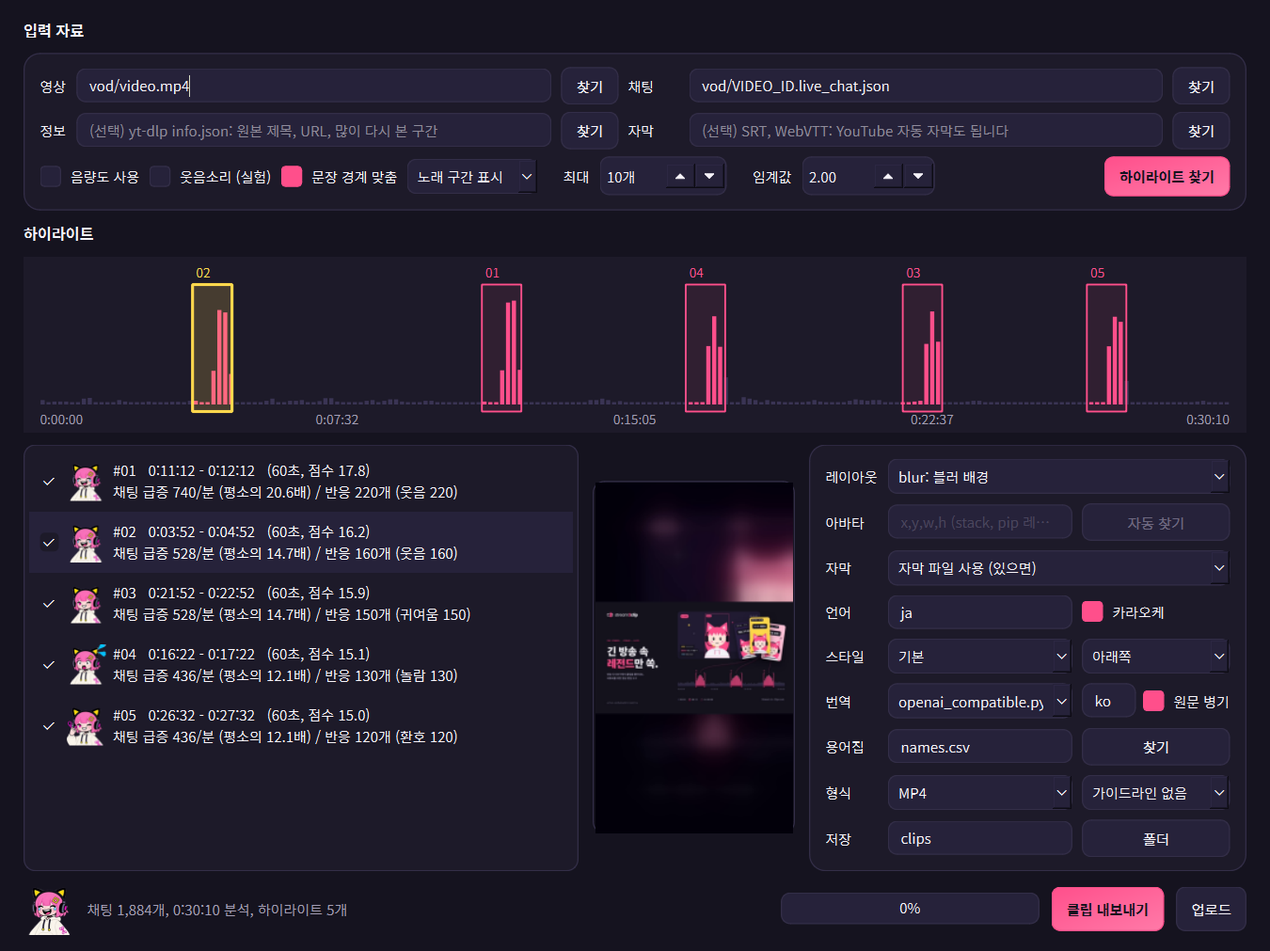
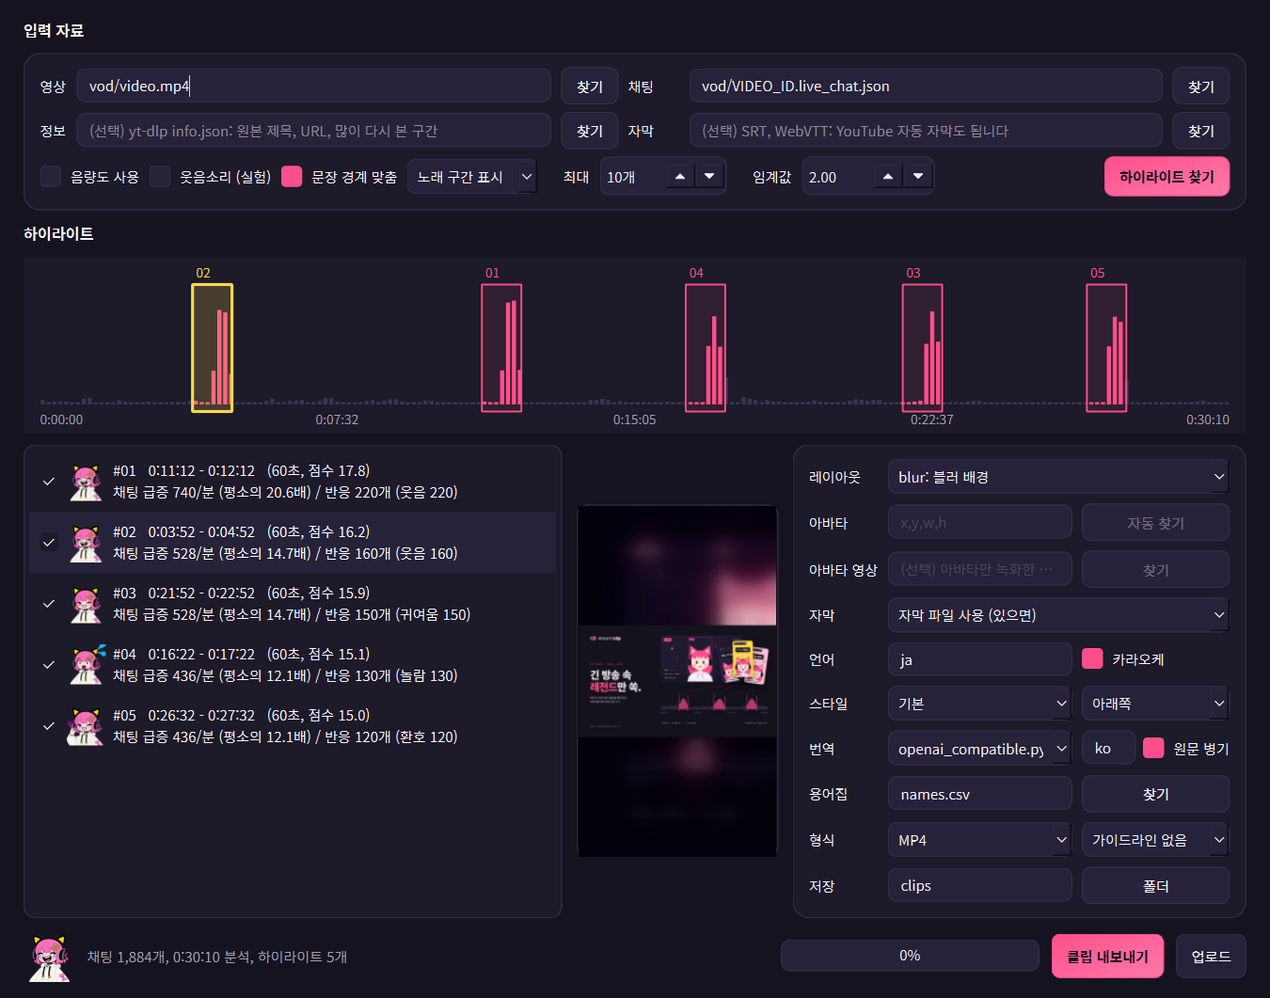
Release 0.9.0
Version numbers, changelog, README and docs, the site manual in three
languages, screenshots, and the run with real CHZZK and SOOP chats
and OBS.

diff --git a/site/ja/guide.html b/site/ja/guide.html
@@ -50,7 +50,7 @@
 <div class="wrap dochead">
   <h1>stream2clip 取扱説明書</h1>
   <dl>
-    <dt>対象バージョン</dt><dd>v0.8</dd>
+    <dt>対象バージョン</dt><dd>v0.9</dd>
     <dt>対象</dt><dd>Windows用インストーラー、実行ファイルおよびPythonパッケージの利用者</dd>
     <dt>配布元</dt><dd>github.com/BudongJW/stream2clip</dd>
   </dl>
@@ -239,6 +239,7 @@
           <tr><th scope="row">fit</th><td>画面全体が見えるように縮小</td></tr>
           <tr><th scope="row">stack</th><td>上にアバター、下にゲーム画面。<strong>自動検出</strong>でアバターの位置を検出</td></tr>
           <tr><th scope="row">pip</th><td>ゲーム画面を全体に表示し、隅にアバターを配置。<strong>自動検出</strong>でアバターの位置を検出</td></tr>
+          <tr><th scope="row">アバター動画</th><td>stack、pipで任意に使用。アバターだけを録画した動画を指定すると、緑の背景を取り除いて合成。透過背景の動画はそのまま使用</td></tr>
         </tbody>
       </table>
     </div>

diff --git a/site/guide.html b/site/guide.html
@@ -50,7 +50,7 @@
 <div class="wrap dochead">
   <h1>stream2clip 사용 설명서</h1>
   <dl>
-    <dt>적용 버전</dt><dd>v0.8</dd>
+    <dt>적용 버전</dt><dd>v0.9</dd>
     <dt>대상</dt><dd>Windows 설치 프로그램, 실행 파일 및 파이썬 패키지 사용자</dd>
     <dt>배포처</dt><dd>github.com/BudongJW/stream2clip</dd>
   </dl>
@@ -239,6 +239,7 @@
           <tr><th scope="row">fit</th><td>화면 전체가 보이도록 축소</td></tr>
           <tr><th scope="row">stack</th><td>상단 아바타, 하단 게임 화면. <strong>자동 찾기</strong>로 아바타 위치 검출</td></tr>
           <tr><th scope="row">pip</th><td>게임 화면을 전체에 채우고 구석에 아바타 삽입. <strong>자동 찾기</strong>로 아바타 위치 검출</td></tr>
+          <tr><th scope="row">아바타 영상</th><td>stack, pip에서 선택 사용. 아바타만 녹화한 영상을 지정하면 초록 배경을 제거하여 합성. 투명 배경 영상은 그대로 사용</td></tr>
         </tbody>
       </table>
     </div>

diff --git a/site/en/guide.html b/site/en/guide.html
@@ -50,7 +50,7 @@
 <div class="wrap dochead">
   <h1>stream2clip user manual</h1>
   <dl>
-    <dt>Version</dt><dd>v0.8</dd>
+    <dt>Version</dt><dd>v0.9</dd>
     <dt>Audience</dt><dd>Users of the Windows installer, the executables and the Python package</dd>
     <dt>Source</dt><dd>github.com/BudongJW/stream2clip</dd>
   </dl>
@@ -239,6 +239,7 @@
           <tr><th scope="row">fit</th><td>Whole picture scaled down to fit</td></tr>
           <tr><th scope="row">stack</th><td>Avatar on top, game picture below. <strong>Find it</strong> detects the avatar position</td></tr>
           <tr><th scope="row">pip</th><td>Game picture fills the frame, avatar in a corner. <strong>Find it</strong> detects the avatar position</td></tr>
+          <tr><th scope="row">Avatar video</th><td>Optional for stack and pip. A recording of the avatar alone is laid over the game with its green background removed. A transparent video is used as it is</td></tr>
         </tbody>
       </table>
     </div>

diff --git a/src/stream2clip/__init__.py b/src/stream2clip/__init__.py
@@ -23,7 +23,7 @@ from .export import FFmpegError, MediaInfo, export, probe
 from .ffmpeg import ALPHA_FORMATS, FORMATS, ExportOptions, build_export_command, build_video_filter
 from .geometry import Region
 
-__version__ = "0.8.0"
+__version__ = "0.9.0"
 
 __all__ = [
     "ALPHA_FORMATS",

diff --git a/README.md b/README.md
@@ -11,7 +11,7 @@
 방송 화면과 다시보기에서 장면을 캡쳐, 녹화하고 하이라이트 구간을 세로형 클립으로 제작하는 영상 편집 도구
 
 <!-- 프로젝트 -->
-<a href="#로드맵"><img alt="version" src="https://img.shields.io/badge/version-0.8.0-FF4F8B?style=for-the-badge&labelColor=15131F"></a>
+<a href="#로드맵"><img alt="version" src="https://img.shields.io/badge/version-0.9.0-FF4F8B?style=for-the-badge&labelColor=15131F"></a>
 <a href="LICENSE"><img alt="license" src="https://img.shields.io/badge/license-Apache--2.0-F7F4FA?style=for-the-badge&labelColor=15131F"></a>
 <a href="https://github.com/BudongJW/stream2clip/actions/workflows/ci.yml"><img alt="CI" src="https://img.shields.io/github/actions/workflow/status/BudongJW/stream2clip/ci.yml?branch=main&style=for-the-badge&label=CI&logo=githubactions&logoColor=white&labelColor=15131F"></a>
 <a href="#알려진-제약"><img alt="platform" src="https://img.shields.io/badge/platform-Windows%20%7C%20macOS%20%7C%20Linux-FFD84D?style=for-the-badge&labelColor=15131F"></a>
@@ -27,7 +27,7 @@
 <a href="#기술-스펙"><img alt="faster-whisper" src="https://img.shields.io/badge/faster--whisper-subtitles-412991?style=flat-square"></a>
 <a href="#기술-스펙"><img alt="libass" src="https://img.shields.io/badge/libass-karaoke%20ASS-6E6880?style=flat-square"></a>
 <a href="#개발"><img alt="pytest" src="https://img.shields.io/badge/tested%20with-pytest-0A9EDC?style=flat-square&logo=pytest&logoColor=white"></a>
-<a href="#개발"><img alt="tests" src="https://img.shields.io/badge/tests-426-4ADE80?style=flat-square"></a>
+<a href="#개발"><img alt="tests" src="https://img.shields.io/badge/tests-436-4ADE80?style=flat-square"></a>
 
 <!-- 기능 -->
 <a href="#출력-포맷"><img alt="output" src="https://img.shields.io/badge/output-GIF%2C%20WebP%2C%20MP4%2C%20WebM%2C%20MOV%2C%20APNG-FF4F8B?style=flat-square&labelColor=15131F"></a>
@@ -69,6 +69,7 @@
 
 | &numsp;버&NoBreak;전&numsp; | 주요 변경 |
 |:---:|---|
+| v0.9 | 하이라이트 창의 아바타 영상 입력, 업로드 예약 게시, 자막 속 반응 표현 신호(실험) |
 | v0.8 | CHZZK, SOOP 라이브 채팅 직접 수신, 하이라이트 근거와 점검 문구의 일본어 및 영어 지원 |
 | v0.7 | 자막 개선(언어별 폰트 자동 선택, 문절 단위 줄바꿈, 스타일 프리셋과 위치), VRM 아바타 권리 검사 |
 | v0.6 | 문장 경계 맞춤, 스트리머 표시 구간(`!clip` 등), pip 레이아웃과 별도 아바타 영상 합성, Twitch 라이브 채팅 |
@@ -230,7 +231,7 @@ stream2clip clips vod/video.mp4 --highlights highlights.json --layout pip --avat
 | &numsp;&numsp;&numsp;&numsp;&numsp;방&NoBreak;법&numsp;&numsp;&numsp;&numsp;&numsp; | 옵션 | 내용 |
 |:---:|---|---|
 | 방송 화면의 영역 | `--avatar x,y,w,h`, `--avatar auto` | 방송 화면에서 아바타가 있는 사각 영역을 잘라 사용. `auto`는 얼굴 검출로 영역 결정 |
-| 별도 아바타 영상 | `--avatar-video FILE` | 아바타만 녹화한 그린스크린 또는 알파 영상을 방송 영상 위에 합성. 사각 테두리 없이 아바타 형태 그대로 표시 |
+| 별도 아바타 영상 | `--avatar-video FILE`, 하이라이트 창의 **아바타 영상** | 아바타만 녹화한 그린스크린 또는 투명 배경 영상을 방송 영상 위에 합성. 사각 테두리 없이 아바타 형태 그대로 표시 |
 
 ```bash
 stream2clip clips vod/video.mp4 --highlights highlights.json --layout pip --avatar-video vod/avatar.mp4 -o clips
@@ -240,7 +241,7 @@ stream2clip clips vod/video.mp4 --highlights highlights.json --layout pip --avat
 |:---:|---|
 | `--corner` | `pip`의 아바타 위치. `top-left`, `top-right`(기본값), `bottom-left`, `bottom-right` |
 | `--inset` | `pip`의 아바타 폭. 화면 폭 대비 비율, 기본값 0.42 |
-| `--avatar-key` | 아바타 영상에서 제거할 색. 기본값 `#00FF00`. `none` 지정 시 영상 자체의 알파 사용 |
+| `--avatar-key` | 아바타 영상에서 제거할 색. 기본값 `auto`: 영상에 투명 정보가 있으면(ProRes 4444 MOV, 알파 WebM 등) 그대로 사용하고, 없으면 `#00FF00` 제거. `none`은 영상 자체의 투명 정보만 사용 |
 | `--avatar-offset` | 아바타 영상의 녹화가 방송보다 먼저 시작된 시간(초). 늦게 시작된 경우 음수 |
 | `--game` | 게임 화면 영역 `x,y,w,h`. 미지정 시 화면 전체 |
 
@@ -417,7 +418,8 @@ stream2clip upload clips/clip_01.mp4 --title "레전드 장면" --description-fi
 - 사전 준비: 본인 Google Cloud 프로젝트의 OAuth 클라이언트 파일(데스크톱 앱 유형). 최초 1회 브라우저에서 동의
 - 공개 범위 기본값은 비공개. YouTube API는 미지정 시 공개로 게시하므로 항상 명시하여 전송
 - `--dry-run`: 전송 내용만 표시하고 업로드 미수행
-- 앱: 하이라이트 창의 **업로드**. 내보낸 클립과 설명란 파일이 입력된 상태로 열리며 **보낼 내용 보기**로 사전 확인. 공개 범위는 열 때마다 비공개에서 시작
+- `--publish-at "2026-12-24 18:00"`: 예약 게시. 비공개로 업로드한 후 지정한 시각(시간대 미표기 시 PC의 현지 시각)에 YouTube가 공개로 전환. 공개 범위를 비공개로 둔 경우에만 사용 가능
+- 앱: 하이라이트 창의 **업로드**. 내보낸 클립과 설명란 파일이 입력된 상태로 열리며 **보낼 내용 보기**로 사전 확인. 공개 범위는 열 때마다 비공개에서 시작. **예약 게시**를 선택하면 공개 범위가 비공개로 고정되고 지정한 시각에 공개
 
 ### 아바타 위치 자동 검출
 
@@ -482,12 +484,13 @@ stream2clip auto vod/video.mp4 --chat vod/chzzk_VIDEO_NO.chat.jsonl --info vod/i
 
 ### 검출 방식 및 평가
 
-| &numsp;&numsp;&numsp;항&NoBreak;목&numsp;&numsp;&numsp; | 요약 |
+| &numsp;&numsp;&numsp;&numsp;&numsp;항&NoBreak;목&numsp;&numsp;&numsp;&numsp;&numsp; | 요약 |
 |:---:|---|
 | 점수 계산 | 방송을 5초 단위로 분할, 신호별로 해당 방송의 평소 수준(중앙값, MAD)과 비교한 robust z-점수를 가중합 |
 | 제외 신호 | 인사 및 작별 메시지, YouTube 대기실 채팅 |
 | 평가 방법 | `evaluate` 명령으로 시청자 댓글의 타임스탬프와 비교 |
 | 평가 결과 | 공개 아카이브 7개 기준 기본값의 precision 52%, 무작위 대비 1.28배 |
+| 채팅 없는 방송 | `--speech 자막 파일`로 자막 속 반응 표현(스트리머의 발화)을 신호로 사용. 실험 기능이며 방송 5개 기준 무작위 대비 1.07배로 효과가 뚜렷하지 않음 |
 
 신호별 가중치, 기본값 산정 근거, 평가 결과 전체: [docs/DETECTION.md](docs/DETECTION.md)
 
@@ -559,7 +562,7 @@ stream2clip check --vrm model.vrm --monetized
 | 전역 단축키 | Win32 `RegisterHotKey`, **pynput** | - | - | Windows는 추가 설치 불필요, 그 외 `[hotkey]` |
 | 아바타 검출 | **onnxruntime**, deepghs/anime_face_detection | 1.16 이상 | 1.32 | 선택 설치 `[detect]`. 모델 12MB는 최초 사용 시 다운로드 |
 | OCR | **Tesseract**, pytesseract | 0.3 이상 | - | 선택 설치 `[ocr]`. 번역 플러그인과 함께 사용 |
-| 테스트 | **pytest**, Xvfb | 8 이상 | 9.2 | 426개. 실제 마우스 이벤트, F8 및 F9, VOD 클립 전체 절차, Windows 전역 단축키와 배율 |
+| 테스트 | **pytest**, Xvfb | 8 이상 | 9.2 | 436개. 실제 마우스 이벤트, F8 및 F9, VOD 클립 전체 절차, Windows 전역 단축키와 배율 |
 | CI | **GitHub Actions** | - | - | Ubuntu(Xvfb, GUI 포함), Windows. 패키징 변경 시 Windows 실행 파일과 설치 프로그램을 빌드하여 실행 |
 | 패키징 | setuptools, **PyInstaller**, Inno Setup | 77 이상, 6.10 이상, 6 | 6.22(PyInstaller) | `stream2clip`, `stream2clip-gui` 실행 파일, entry point 플러그인, Windows용 zip 및 설치 프로그램 |
 | 데이터 포맷 | **JSON Schema** 2020-12 | - | - | [`annotation.v1.schema.json`](src/stream2clip/schemas/annotation.v1.schema.json) |
@@ -633,8 +636,8 @@ python packaging/build_windows.py
 |---|---|
 | `dist/stream2clip/stream2clip-gui.exe` | 데스크톱 앱. 콘솔 창 없음 |
 | `dist/stream2clip/stream2clip.exe` | 명령줄 도구. `fetch`, `auto`, `avatar` 등 전체 명령 |
-| `dist/stream2clip-0.8.0-windows-x64.zip` | 위 폴더를 묶은 배포용 zip |
-| `dist/stream2clip-0.8.0-windows-x64-setup.exe` | 설치 프로그램(`--installer`, Inno Setup 6 필요). 첫 화면에서 언어(한국어, 일본어, 영어) 선택, 선택한 언어로 앱 시작 |
+| `dist/stream2clip-0.9.0-windows-x64.zip` | 위 폴더를 묶은 배포용 zip |
+| `dist/stream2clip-0.9.0-windows-x64-setup.exe` | 설치 프로그램(`--installer`, Inno Setup 6 필요). 첫 화면에서 언어(한국어, 일본어, 영어) 선택, 선택한 언어로 앱 시작 |
 
 | &numsp;&numsp;&numsp;&numsp;&numsp;&numsp;&numsp;&numsp;&numsp;옵&NoBreak;션&numsp;&numsp;&numsp;&numsp;&numsp;&numsp;&numsp;&numsp;&numsp; | 동작 |
 |:---:|---|
@@ -684,6 +687,7 @@ stream2clip gui
 | 휠, 구간 더블클릭 | 타임라인 확대. 빈 곳 더블클릭 시 전체 보기 |
 | 목록의 체크 | 내보낼 구간 선택 |
 | 레이아웃 **stack**, **pip**, **자동 찾기** | 얼굴 검출로 아바타 박스 입력 |
+| **아바타 영상** | 아바타만 녹화한 영상을 stack, pip 레이아웃의 아바타로 사용. 초록 배경 제거, 투명 배경 영상은 그대로 사용 |
 | **문장 경계 맞춤** | 자막 파일이 있는 경우 구간의 시작과 끝을 자막 줄의 경계로 이동(최대 3초) |
 | **스타일** | 자막 모양(기본, 상자, 분홍 강조, 작게)과 위치(아래쪽, 가운데, 위쪽) 선택 |
 | **웃음소리 (실험)**, **노래 구간** | 웃음소리 유형의 소리에 점수 가산, 노래와 겹치는 하이라이트 표시 또는 제외 |
@@ -990,7 +994,7 @@ src/stream2clip/
 ### 완료
 
 <details>
-<summary><b>버전별 완료 항목 34건</b></summary>
+<summary><b>버전별 완료 항목 37건</b></summary>
 
 <br>
 
@@ -1030,6 +1034,9 @@ src/stream2clip/
 | v0.7 | VRM 아바타 권리 검사(`check --vrm`) |
 | v0.8 | CHZZK, SOOP 라이브 채팅 직접 수신으로 라이브 모드 사용 |
 | v0.8 | 하이라이트 근거, 가이드라인 점검, VRM 검사, 업로드 경고 문구의 일본어 및 영어 지원 |
+| v0.9 | 하이라이트 창의 아바타 영상 입력, 투명 배경 아바타 영상의 자동 인식 |
+| v0.9 | YouTube 업로드 예약 게시(`--publish-at`, 업로드 창의 예약 게시) |
+| v0.9 | 자막 속 반응 표현 신호(`--speech`, 실험): 채팅이 없는 방송용 |
 
 </details>
 

diff --git a/docs/VERIFICATION.md b/docs/VERIFICATION.md
@@ -80,7 +80,8 @@ CHZZK 구간 다운로드 실패의 원인은 ffmpeg 7.1 이후의 HLS 확장자
 - 표시 명령과 OBS: 채팅 파일에 스트리머 역할의 `!clip`을 기록하여 기본 임계값, 준비 시간 이전 상태에서 35초 클립 1개 저장 확인. 시청자의 `!clip`은 발동하지 않음
 - CHZZK, SOOP 채팅: 실제 방송 중인 채널에 로그인 없이 접속하여 기본 설정으로 각 5분간 수신(OBS 미사용). CHZZK는 메시지 1,021개에서 1회 발동(점수 3.7, 평소의 2.8배), SOOP은 메시지 1,543개(별풍선 포함)에서 발동 없음. CHZZK 메시지 시각과 PC 시계의 차이는 약 1.5초, SOOP 메시지는 시각 정보가 없어 도착 시각 사용
 - SOOP 후원 패킷: 실제 방송 6개를 150초 관찰하여 별풍선 3건, 애드벌룬 2건, 영상풍선 1건의 항목 위치 확인. 구독 및 팔로우 알림은 관찰하지 못하여 수신하지 않음
-- 미검증: 기본 임계값에서의 클립 절단 위치와 실제 장면의 일치 여부(종료된 방송의 채팅으로만 측정). CHZZK, SOOP 채팅과 OBS를 함께 사용한 저장. CHZZK, SOOP의 성인 인증 및 비밀번호 방송
+- CHZZK, SOOP 채팅과 OBS: 실제 방송 중인 채널의 채팅과 실제 OBS Studio 33.0.1로 확인. 임계값을 1로 낮춘 설정에서 각 1회 발동하여 35초 클립을 55초, 59초 리플레이에서 잘라 저장(10개 확인 항목 통과)
+- 미검증: 기본 임계값에서의 클립 절단 위치와 실제 장면의 일치 여부(종료된 방송의 채팅으로만 측정). CHZZK, SOOP의 성인 인증 및 비밀번호 방송
 
 ## 클립 제작 부가 기능
 
@@ -89,7 +90,7 @@ CHZZK 구간 다운로드 실패의 원인은 ffmpeg 7.1 이후의 HLS 확장자
 | 문장 경계 맞춤 | 실제 방송 1개(85분, YouTube 자동 자막 1,001줄)의 하이라이트 10개에 적용. 가장자리 20곳 중 줄 중간에 걸린 곳이 12곳에서 1곳으로 감소, 이동량 최대 2.6초 | 이동 후 클립의 직접 시청 확인. 방송 1개의 결과에 한정 |
 | 스트리머 표시 구간 | 역할 판독은 실제 YouTube 채팅 7개 방송(`MODERATOR` 11건, `OWNER` 1건), 실제 CHZZK 다시보기 1개(스트리머 2건, 채팅 관리자 216건)로 확인 | 실제 방송에서 사용된 표시 명령. 구간 포함과 순위는 합성 채팅으로만 검증 |
 | pip 레이아웃 | 실제 방송 녹화본(1080p)에서 `--layout pip --avatar auto`로 클립 제작. 아바타 영역 검출(12장 중 12장), 1080×1920 클립 24.6초 제작에 18초 소요 | 없음 |
-| 별도 아바타 영상 | 합성 영상(단색 배경의 게임 화면, 그린스크린 아바타)으로 색 제거와 합성 위치를 픽셀 단위로 확인 | 실제 아바타 그린스크린 또는 알파 녹화본 |
+| 별도 아바타 영상 | 합성 영상(단색 배경의 게임 화면, 그린스크린 아바타)으로 색 제거와 합성 위치를 픽셀 단위로 확인. 같은 아바타를 투명 배경 WebM과 ProRes 4444 MOV로 저장한 영상의 자동 인식과 합성 확인 | 실제 아바타 그린스크린 또는 알파 녹화본 |
 
 ## 자막 및 VRM
 
@@ -101,7 +102,7 @@ CHZZK 구간 다운로드 실패의 원인은 ffmpeg 7.1 이후의 HLS 확장자
 
 ## YouTube 업로드
 
-- 실제 업로드 미실시(계정과 OAuth가 필요하며 게시가 수반되는 작업)
+- 실제 업로드 미실시(계정과 OAuth가 필요하며 게시가 수반되는 작업). 예약 게시의 요청 본문(`status.publishAt`)도 가짜 API로만 확인
 - 요청 본문과 진행 처리는 가짜 API로 테스트(앱의 업로드 창 포함)
 - 쿼터는 공식 문서 기준(2026-11 확인)
 

diff --git a/docs/DETECTION.md b/docs/DETECTION.md
@@ -9,6 +9,7 @@
 | 여러 방송 평가 | [여러 방송 평가](#여러-방송-평가) |
 | 라이브 모드 | [라이브 모드 기본값](#라이브-모드-기본값) |
 | 스트리머 표시, 문장 경계 | [스트리머 표시 구간](#스트리머-표시-구간), [문장 경계 맞춤](#문장-경계-맞춤) |
+| 채팅 없는 방송 | [자막 속 반응 표현 신호](#자막-속-반응-표현-신호) |
 | 아바타 박스 | [아바타 박스 결정 방식](#아바타-박스-결정-방식) |
 
 ## 하이라이트 점수 계산
@@ -73,6 +74,30 @@
 - 근거: kiy0ni/auto-video-editor의 문장 경계 맞춤 방식
 - 측정: 실제 방송 1개(85분, YouTube 자동 자막 1,001줄, 줄 길이 중앙값 3.4초)의 하이라이트 10개 기준. 가장자리 20곳 중 줄 중간에 걸린 곳이 12곳에서 1곳으로 감소, 이동량은 최대 2.6초
 - 한계: YouTube 자동 자막의 줄은 문장 단위가 아닌 표시 단위. 방송 1개의 측정 결과이며 이동 후의 클립을 직접 시청하여 확인하지는 않음
+
+## 자막 속 반응 표현 신호
+
+채팅이 없는 방송(채팅 다시보기가 없는 오래된 아카이브, 채팅을 끈 방송)을 위한 실험 신호. 기본값은 사용 안 함
+
+| &numsp;&numsp;&numsp;항&NoBreak;목&numsp;&numsp;&numsp; | 내용 |
+|:---:|---|
+| 계산 | 자막 줄 가운데 채팅 반응 어휘(やばい, えっ, すごい 등)에 해당하는 줄의 수를 5초 단위로 집계. 스트리머 본인의 발화를 대상으로 함 |
+| 사용 | `highlights --speech 자막 파일`, `auto --speech 자막 파일`. 채팅 없이 단독 사용 가능 |
+| 시각 정렬 | 자막 시각에 채팅 지연(`--delay`)을 더하여 다른 신호와 같은 기준으로 처리. 클립은 발화 시점 기준으로 절단 |
+| 가중치 | 0.30. 채팅 신호와 함께 사용하는 경우 다른 신호와 가중합 |
+
+측정(일본어 방송 5개, YouTube 자동 자막, 시청자 댓글 타임스탬프 기준):
+
+| 입력 | 클립 | precision | chance | lift | recall |
+|---|:---:|:---:|:---:|:---:|:---:|
+| 채팅만 사용 | 40 | 45% | 36% | 1.26 | 20% |
+| 자막 반응 표현만 사용 | 50 | 48% | 45% | 1.07 | 23% |
+| 채팅과 자막 반응 표현 | 50 | 50% | 41% | 1.21 | 26% |
+
+- 자막 반응 표현만 사용한 경우 무작위보다 소폭 높은 수준이며 방송별 편차가 큼(lift 0.0~1.41). 방송 5개로는 효과를 단정할 수 없음
+- 채팅이 있는 방송에서는 개선이 확인되지 않아 기본 신호에 포함하지 않음
+- 발화 속도(구간당 글자 수)는 lift 0.83으로 무작위보다 낮아 채택하지 않음
+- 한계: 일본어 자동 자막만 측정. 자동 자막은 감탄사와 겹치는 발화를 누락하는 경우가 많음
 
 ## 실제 방송으로 확인한 기본값
 

diff --git a/CHANGELOG.md b/CHANGELOG.md
@@ -1,8 +1,22 @@
 # 변경 내역
 
-## 미배포
+## v0.9.0: 2026-11-19
+
+### 클립 제작
+- 하이라이트 창에 **아바타 영상** 입력 추가: 아바타만 녹화한 영상을 stack, pip 레이아웃의 아바타로 사용. 이전에는 명령줄에서만 지정 가능
+- 투명 배경 아바타 영상의 자동 인식: `--avatar-key`의 기본값을 `auto`로 변경. 영상에 투명 정보가 있으면(ProRes 4444 MOV, 알파 WebM) 그대로 사용하고 없으면 `#00FF00` 제거
+- 알파 WebM은 libvpx 디코더로 읽도록 지정(ffmpeg 기본 VP9 디코더는 투명 정보를 버림)
+- 자막 속 반응 표현 신호(`--speech 자막 파일`, 실험): 채팅이 없는 방송에서 스트리머의 발화 중 반응 표현을 신호로 사용. 일본어 방송 5개 기준 무작위 대비 1.07배로 효과가 뚜렷하지 않아 기본값에는 포함하지 않음
+- 코어: `export.has_alpha`, `ffmpeg.avatar_decoder_args`, `highlights.speech_levels`, `detect_highlights(speech=...)`
+
+### 업로드
+- 예약 게시: `upload --publish-at "2026-12-24 18:00"`, 업로드 창의 **예약 게시**. 비공개로 업로드한 후 지정한 시각에 YouTube가 공개로 전환. 공개 범위가 비공개인 경우에만 허용하며 과거 시각은 거부
+- 코어: `upload.video_resource(publish_at=...)`, `scheduled_time`
 
 ### 확인 내용
+- CHZZK, SOOP 채팅과 실제 OBS Studio 33.0.1로 클립 저장 확인(각 35초 클립 1개, 10개 항목 통과)
+- 투명 배경 WebM, ProRes 4444 MOV 아바타 영상의 인식과 합성을 합성 영상으로 확인
+- 미검증: 예약 게시의 실제 업로드(계정 필요), 실제 아바타 녹화본
 - Windows 11 실기기에서 v0.8.0 실행 파일을 직접 실행: 클립 제작(pip 레이아웃, 아바타 영상, 문장 경계 맞춤, 자막 스타일), 스트리머 표시 구간, VRM 검사, CHZZK 및 SOOP 및 Twitch 라이브 채팅 수신 등 13개 항목 통과
 - 설치 프로그램을 자동 옵션 없이 화면 단계별로 진행하여 설치, 실행, 제거 확인(15개 항목 통과). 이전에는 러너에서의 자동 설치만 확인
 

diff --git a/docs/TESTING.md b/docs/TESTING.md
@@ -49,6 +49,7 @@
 | `test_vrm.py` | VRM 1.0, 0.x 메타 판독(합성한 GLB 파일), 0.x 라이선스 이름의 환산, VRM이 아닌 파일 거부, 수익화 및 법인 사용 대조, `check --vrm` |
 | `test_translation.py` | 용어집(긴 이름 우선), 번역 후 시간 유지, 이름 고정, 원문 병기 자막, 묶음 전송, Holodex 초안, `--translate` |
 | `test_translator_loading.py` | 번역기를 파일, 모듈에서 불러오기(함수, 클래스, 객체, Windows 드라이브 경로), 잘못된 지정에 대한 안내, 예제 번역기(가짜 응답: 목록 추출, 줄 수 불일치 시 1줄씩 재요청), `--translator file.py` |
+| `test_avatar_schedule.py` | 투명 배경 아바타 영상의 인식(MOV, WebM)과 합성, 알파 WebM의 디코더 지정, 하이라이트 창의 아바타 영상 입력, 예약 게시 시각 해석과 요청 본문, `upload --publish-at`, 업로드 창의 예약 게시 |
 | `test_audio_signals.py` | 웃음소리 신호(크고 끊어지는 소리), 가산 신호가 다른 하이라이트를 줄이지 않는지 여부, 노래 구간 검출(합성 음성, 노래), 노래 표시 및 제외 |
 | `test_evaluation.py` | 댓글의 타임스탬프 읽기(시각이 아닌 숫자 제외), 인접 표시 묶기, 댓글 수 집계, precision, recall, 무작위 기대값 계산, 설정값별 비교, `evaluate`, `fetch --comments` |
 | `test_sections.py` | 주소로 시작하기: 하이라이트 구간만 다운로드(여유 시간, 수신한 파일 재사용), 구간 파일 기준 자막과 설명란의 방송 시각 유지, CHZZK 구간에서만 ffmpeg 확장자 검사 해제, `clips <주소>`, `auto <주소>`, 방송별 폴더 이름, 정보와 채팅만 수신(재사용, CHZZK 및 SOOP 정보 거부) |
